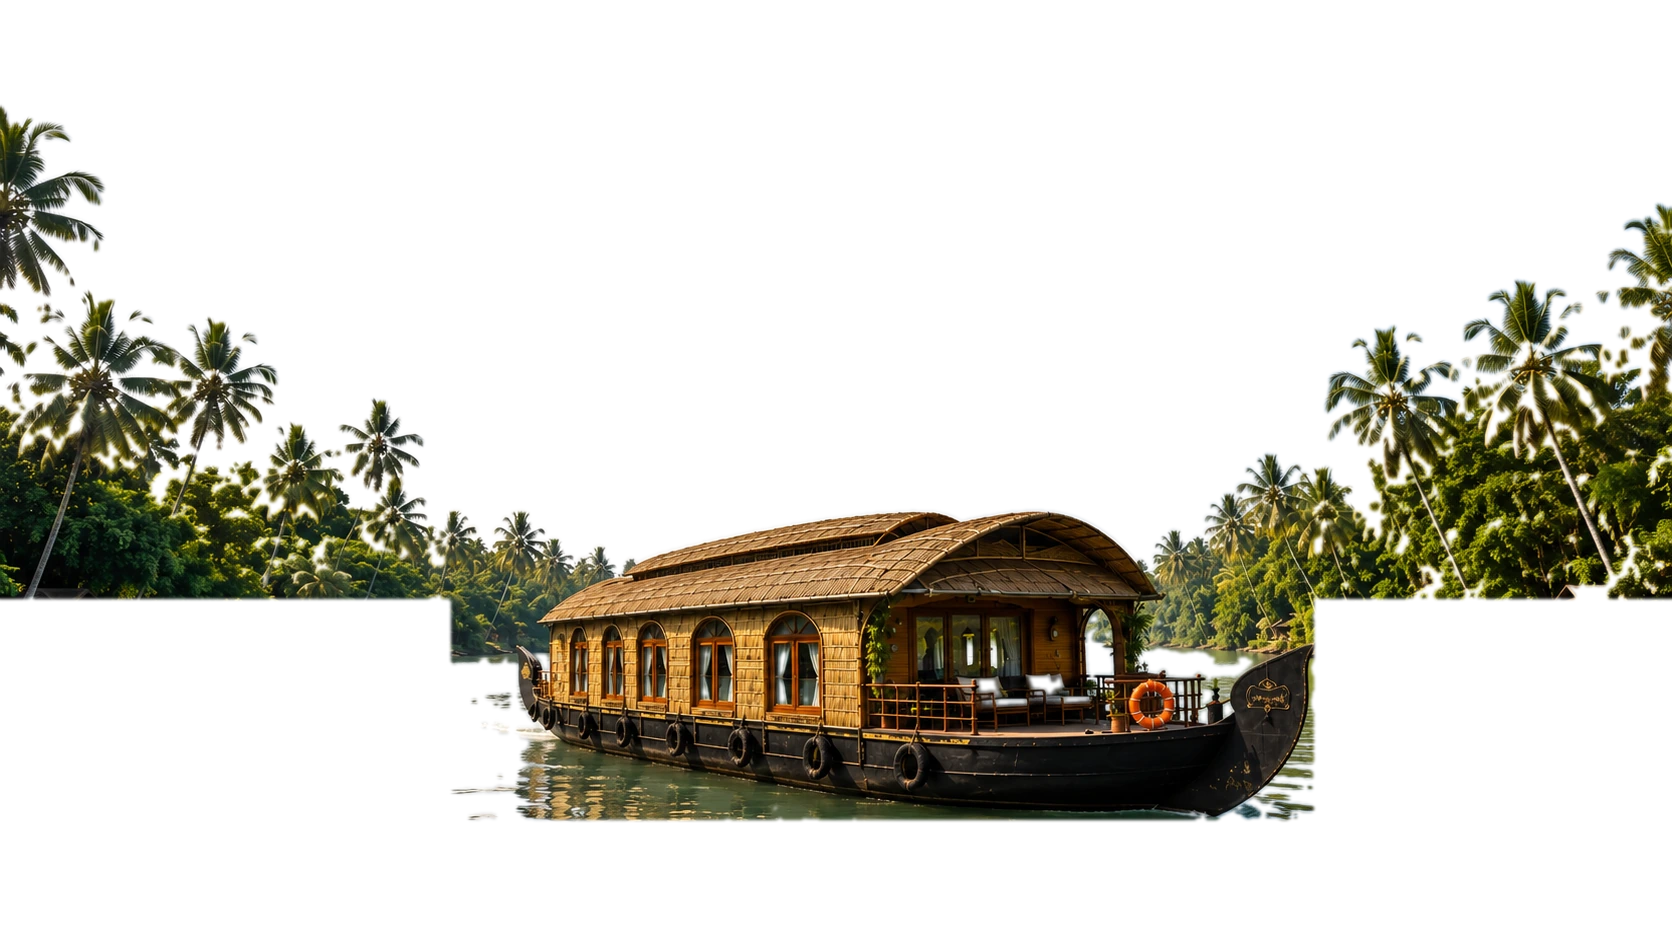
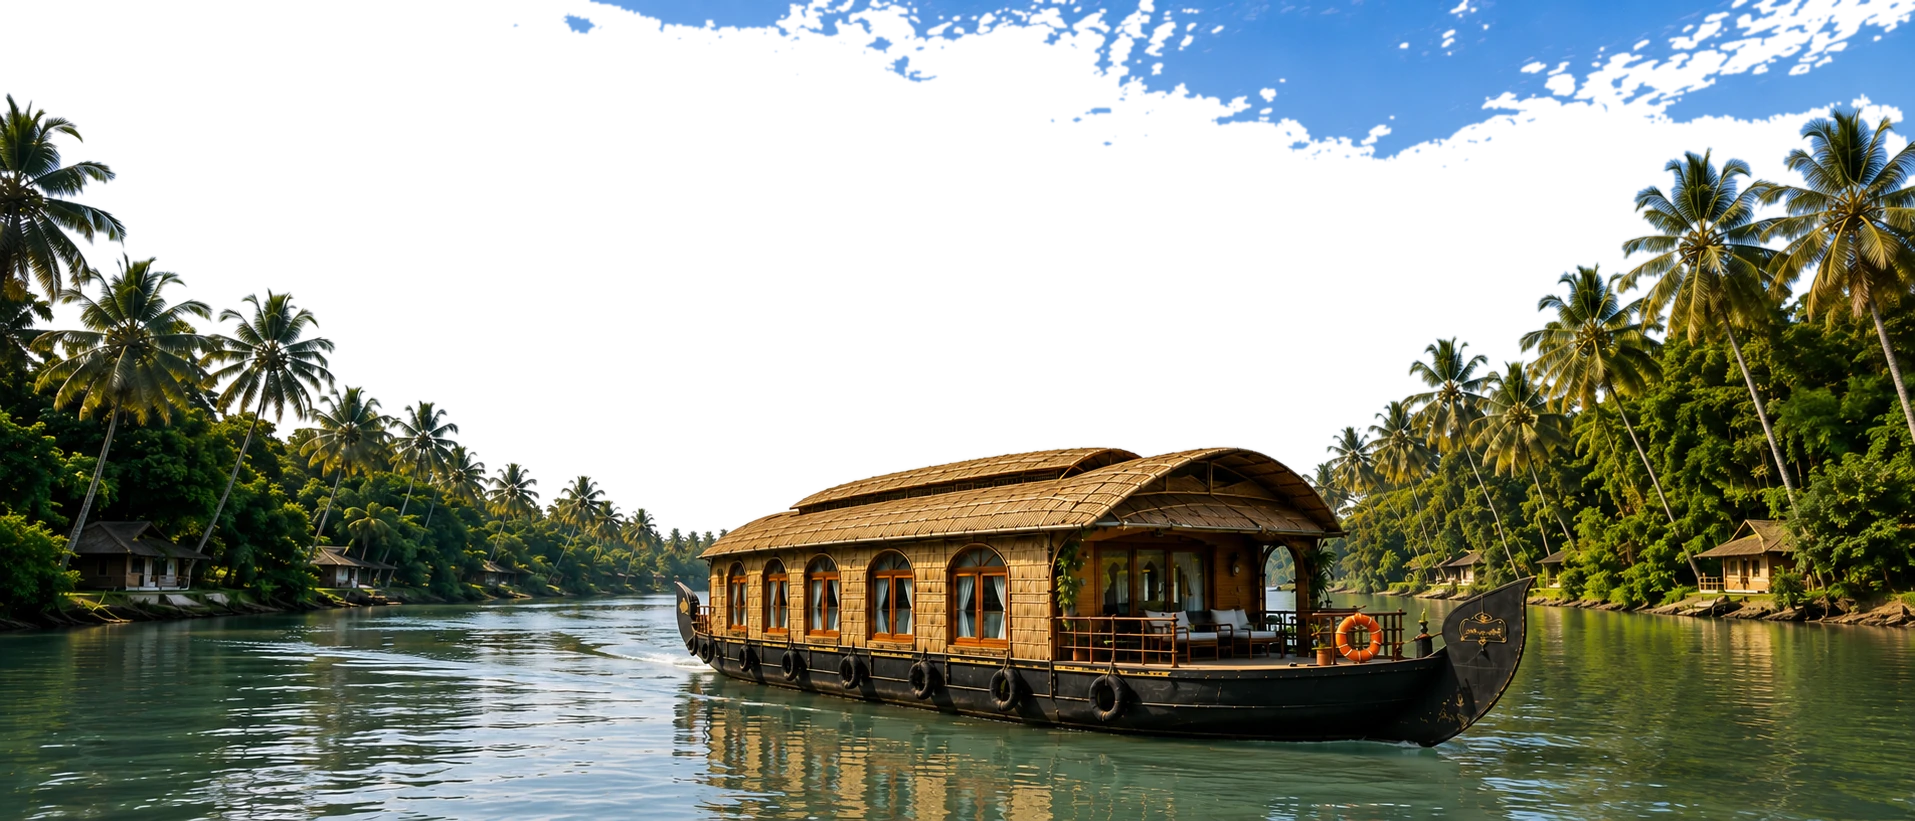
Use the uploaded 21:9 backwaters photo as the full-width hero
- Swap in the new wide (1915x821, ~21:9) photo for both the background and a
  freshly sky-keyed foreground cutout, so the giant "Houseboat" wordmark
  tucks behind the palms on both banks and behind the boat.
- Set the hero aspect-ratio to the photo's own 1915/821 so it fills the hero
  edge-to-edge with no mirrored/blurred side banks and the whole boat in frame.
- Bump asset cache-busting query to v=hero7.

Claude-Session: https://claude.ai/code/session_015tLgdssnuXee4mtgGrjdLZ

diff --git a/roxy-houseboat/index.html b/roxy-houseboat/index.html
@@ -23,7 +23,7 @@
   <link rel="preconnect" href="https://fonts.googleapis.com" />
   <link rel="preconnect" href="https://fonts.gstatic.com" crossorigin />
   <link href="https://fonts.googleapis.com/css2?family=Poppins:ital,wght@0,300;0,400;0,500;0,600;0,700;0,800;1,400;1,500&family=Playfair+Display:ital,wght@0,500;0,600;0,700;1,500;1,600&family=Lato:wght@300;400;700;900&family=Dancing+Script:wght@600;700&display=swap" rel="stylesheet" />
-  <link rel="stylesheet" href="/assets/css/home.css?v=hero6" />
+  <link rel="stylesheet" href="/assets/css/home.css?v=hero7" />
   <link rel="icon" href="/assets/images/logo.png" />
   <script type="application/ld+json">
 {
@@ -247,7 +247,7 @@
     <div class="hero__stage">
       <div class="hero__lux-bg" role="img"
            aria-label="A traditional Roxy houseboat drifting the calm Nileshwar backwaters, framed by tall coconut palms under a bright tropical sky"
-           style="background-image:url('/assets/images/hero-lux.webp?v=hero6')"></div>
+           style="background-image:url('/assets/images/hero-lux.webp?v=hero7')"></div>
       <!-- living water surface: light drifts and glints across the open water only.
            It sits BELOW the keyed foreground, so the boat + palms naturally mask it
            (the movement never runs over the boat hull or the tree banks). -->
@@ -260,7 +260,7 @@
       <!-- the palms + boat, keyed from the SAME photo and layered ON TOP, so the word
            tucks naturally BEHIND the trees and BEHIND the boat -->
       <div class="hero__lux-fg" aria-hidden="true"
-           style="background-image:url('/assets/images/hero-lux-fg.webp?v=hero6')"></div>
+           style="background-image:url('/assets/images/hero-lux-fg.webp?v=hero7')"></div>
     </div>
     <!-- LEFT (lower): intro copy -->
     <div class="hero__aerial-left">

diff --git a/roxy-houseboat/assets/css/home.css b/roxy-houseboat/assets/css/home.css
@@ -2347,7 +2347,7 @@ a.trust__cell:hover{background:var(--bg-2)}
    ============================================================ */
 .hero--aerial{
   position:relative;overflow:hidden;isolation:isolate;
-  width:100%;aspect-ratio:1672 / 941;          /* the photo's own ratio: full width, whole scene, boat NEVER cropped, no mirrored banks */
+  width:100%;aspect-ratio:1915 / 821;          /* the 21:9 photo's own ratio: full width, whole scene, boat NEVER cropped, no mirrored banks */
   max-height:100vh;min-height:560px;
   padding:0;margin:0;max-width:none;display:block;
   background:#cfe0ec;                            /* sky tone while the photo loads */
